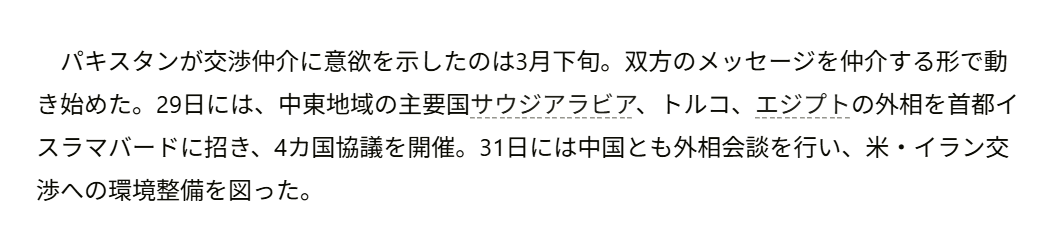
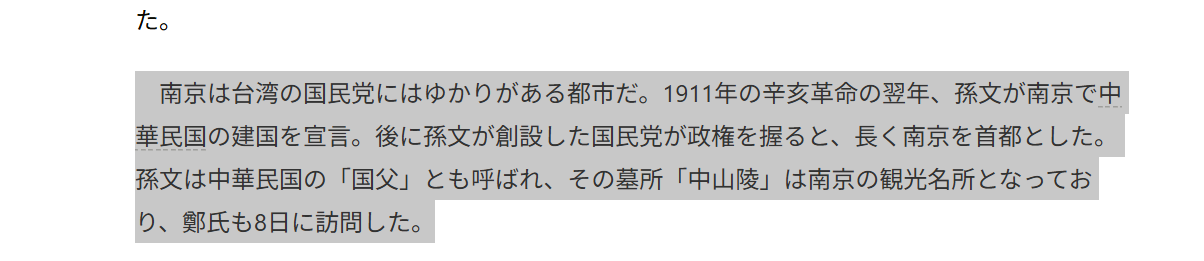
update

diff --git a/dictionary_home.py b/dictionary_home.py
@@ -421,12 +421,12 @@ class DictionaryHome:
         try:
             result = add_word_fast(selected_text)
             if result.startswith("已加入字典"):
-                enrich_word_data_async(selected_text)
                 messagebox.showinfo(
                     "字典",
                     f"{result}\n背景正在補充讀音 / 中文 / 英文 / 詞性",
                     parent=self.window
                 )
+                self.window.after(50, lambda word=selected_text: enrich_word_data_async(word))
             else:
                 messagebox.showinfo("字典", result, parent=self.window)
         except Exception as e:
@@ -1333,6 +1333,11 @@ class DictionaryHome:
     def open_exam_area(self):
         self.clear_page()
         self.load_dictionary_data()
+        self.exam_candidates = []
+        self.exam_current_question = None
+        self.exam_answer_shown = False
+        self.exam_score = 0
+        self.exam_total = 0
 
         outer = tk.Frame(self.main_frame, bg="#F5EAD9")
         outer.pack(fill=tk.BOTH, expand=True, padx=24, pady=24)
@@ -1342,7 +1347,7 @@ class DictionaryHome:
 
         title = tk.Label(
             header,
-            text="日文考試",
+            text=f"{self.get_language_name(self.selected_language)}考試",
             font=("Microsoft JhengHei", 22, "bold"),
             bg="#E7D6BE",
             fg="#4A2F21",
@@ -1352,7 +1357,7 @@ class DictionaryHome:
 
         subtitle = tk.Label(
             header,
-            text="依照目前字典分類出題，適合用來快速練讀音與字義辨識",
+            text="依照目前字典分類出題",
             font=("Microsoft JhengHei", 11),
             bg="#E7D6BE",
             fg="#6A4A35",
@@ -1628,12 +1633,19 @@ class DictionaryHome:
         close_btn = self.create_footer_button(bottom, "關閉", self.window.destroy)
         close_btn.pack(side=tk.RIGHT)
 
+    def get_exam_language(self):
+        selected_language = (self.selected_language or "").strip()
+        if selected_language and selected_language != "new":
+            return selected_language
+        return ""
+
     def get_exam_tag_options(self):
         tags = set()
         has_unclassified = False
+        exam_language = self.get_exam_language()
 
         for item in self.dictionary_data:
-            if str(item.get("language", "")).strip() != "ja":
+            if exam_language and str(item.get("language", "")).strip() != exam_language:
                 continue
 
             normalized_tags = self.get_normalized_tags(item)
@@ -1669,10 +1681,11 @@ class DictionaryHome:
     def get_exam_candidates(self):
         selected_tag = self.exam_tag_var.get().strip()
         mode = self.exam_mode_var.get().strip()
+        exam_language = self.get_exam_language()
         result = []
 
         for item in self.dictionary_data:
-            if str(item.get("language", "")).strip() != "ja":
+            if exam_language and str(item.get("language", "")).strip() != exam_language:
                 continue
 
             normalized_tags = self.get_normalized_tags(item)
@@ -1712,7 +1725,7 @@ class DictionaryHome:
         if not self.exam_candidates:
             self.exam_current_question = None
             self.exam_question_type_label.config(text="目前無法出題")
-            self.exam_prompt_label.config(text="這個分類目前沒有可用的日文題目")
+            self.exam_prompt_label.config(text="這個分類目前沒有可用的題目")
             self.exam_hint_label.config(text="提示：你可以先去單字收藏補上讀音或中文，再回來練習。")
             self.exam_answer_entry.pack_forget()
             for btn in self.exam_choice_buttons:

diff --git a/result_popup.py b/result_popup.py
@@ -254,8 +254,6 @@ class ResultPopup:
             result = add_word_fast(word)
 
             if result.startswith("已加入字典"):
-                enrich_word_data_async(word)
-
                 messagebox.showinfo(
                     "字典",
                     f"{result}\n背景正在補充讀音 / 中文 / 英文 / 詞性",
@@ -263,6 +261,7 @@ class ResultPopup:
                 )
 
                 self.set_status("已加入字典，背景補資料中")
+                self.window.after(50, lambda word=word: enrich_word_data_async(word))
             else:
                 messagebox.showinfo("字典", result, parent=self.window)
                 self.set_status(f"字典：{result}")
@@ -386,4 +385,5 @@ def add_word_with_language(self, selected_text, language, dialog):
     messagebox.showinfo("字典", result, parent=self.window)
     self.set_status(f"字典：{result}")
 
-    enrich_word_data_async(selected_text)
+    if result.startswith("已加入字典"):
+        self.window.after(50, lambda: enrich_word_data_async(selected_text))

diff --git a/dictionary_manager.py b/dictionary_manager.py
@@ -1,8 +1,8 @@
 import json
+import multiprocessing
 import os
 import re
 from datetime import datetime
-import threading
 
 from language_detector import detect_language, is_ambiguous_cjk
 from translator import translate_local
@@ -437,9 +437,9 @@ def enrich_word_data(word):
     return "已補完資料"
 
 def enrich_word_data_async(word):
-    thread = threading.Thread(
+    process = multiprocessing.Process(
         target=enrich_word_data,
         args=(word,),
         daemon=True
     )
-    thread.start()
+    process.start()

diff --git a/main.py b/main.py
@@ -1,5 +1,8 @@
+import multiprocessing
+
 from toolbar_window import ToolbarWindow
 
 if __name__ == "__main__":
+    multiprocessing.freeze_support()
     app = ToolbarWindow()
     app.show()
